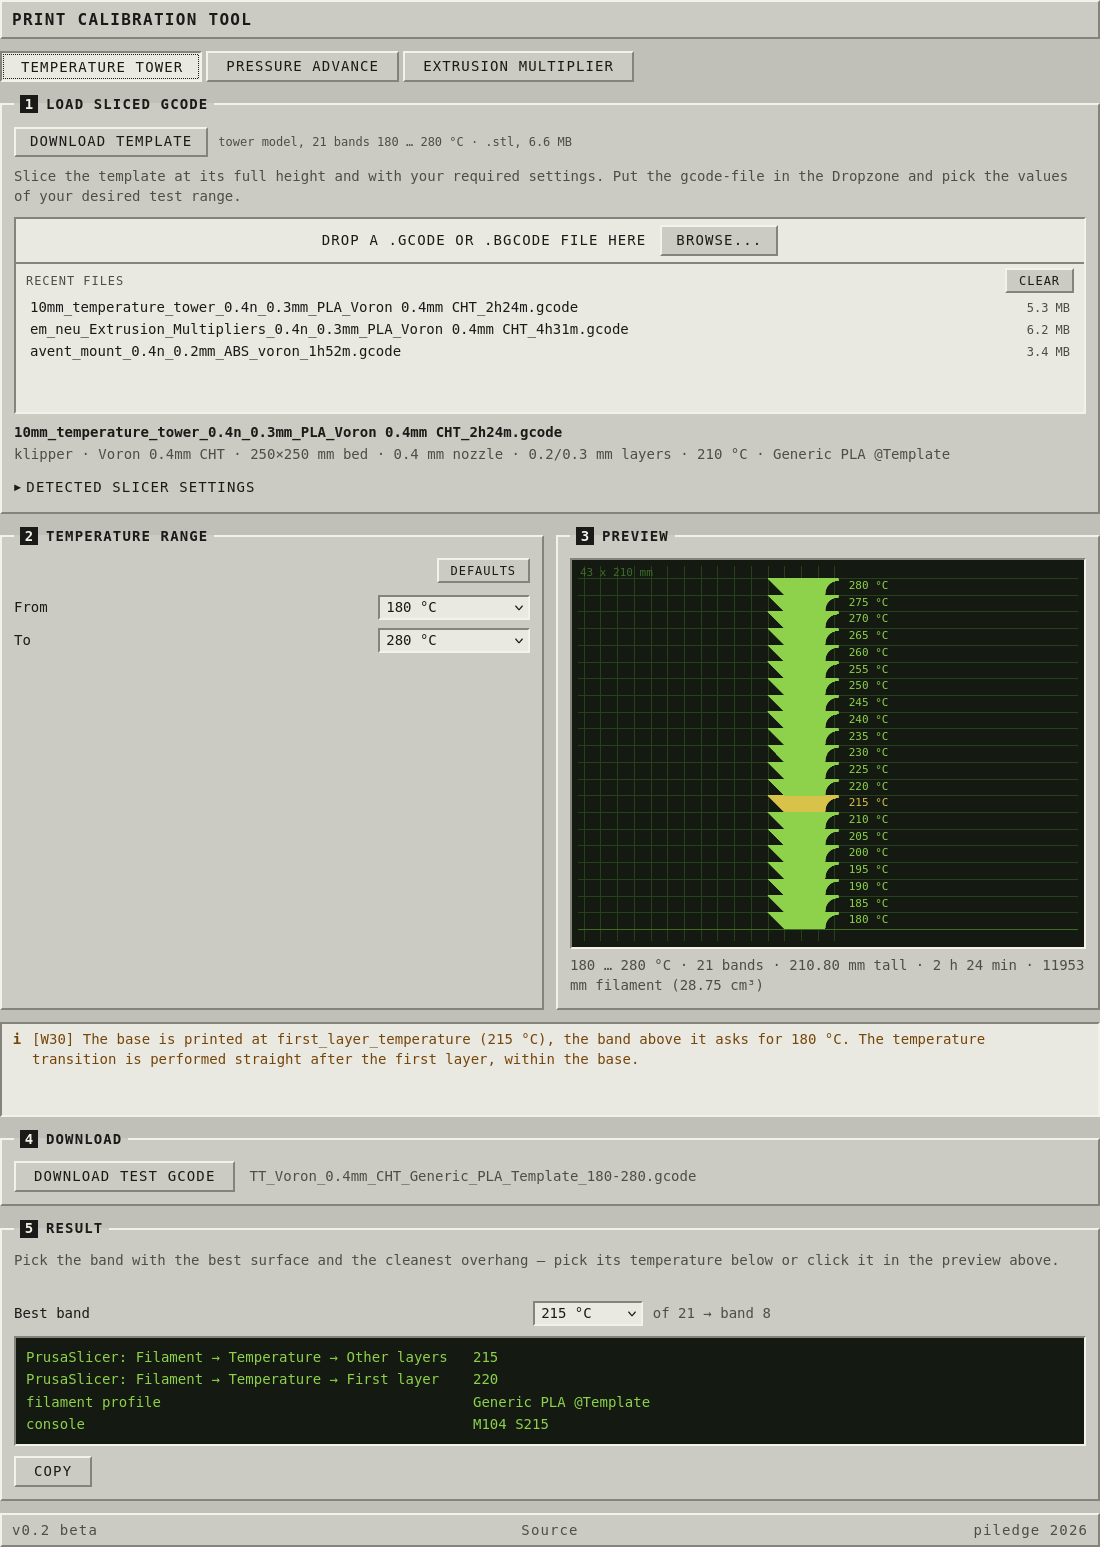
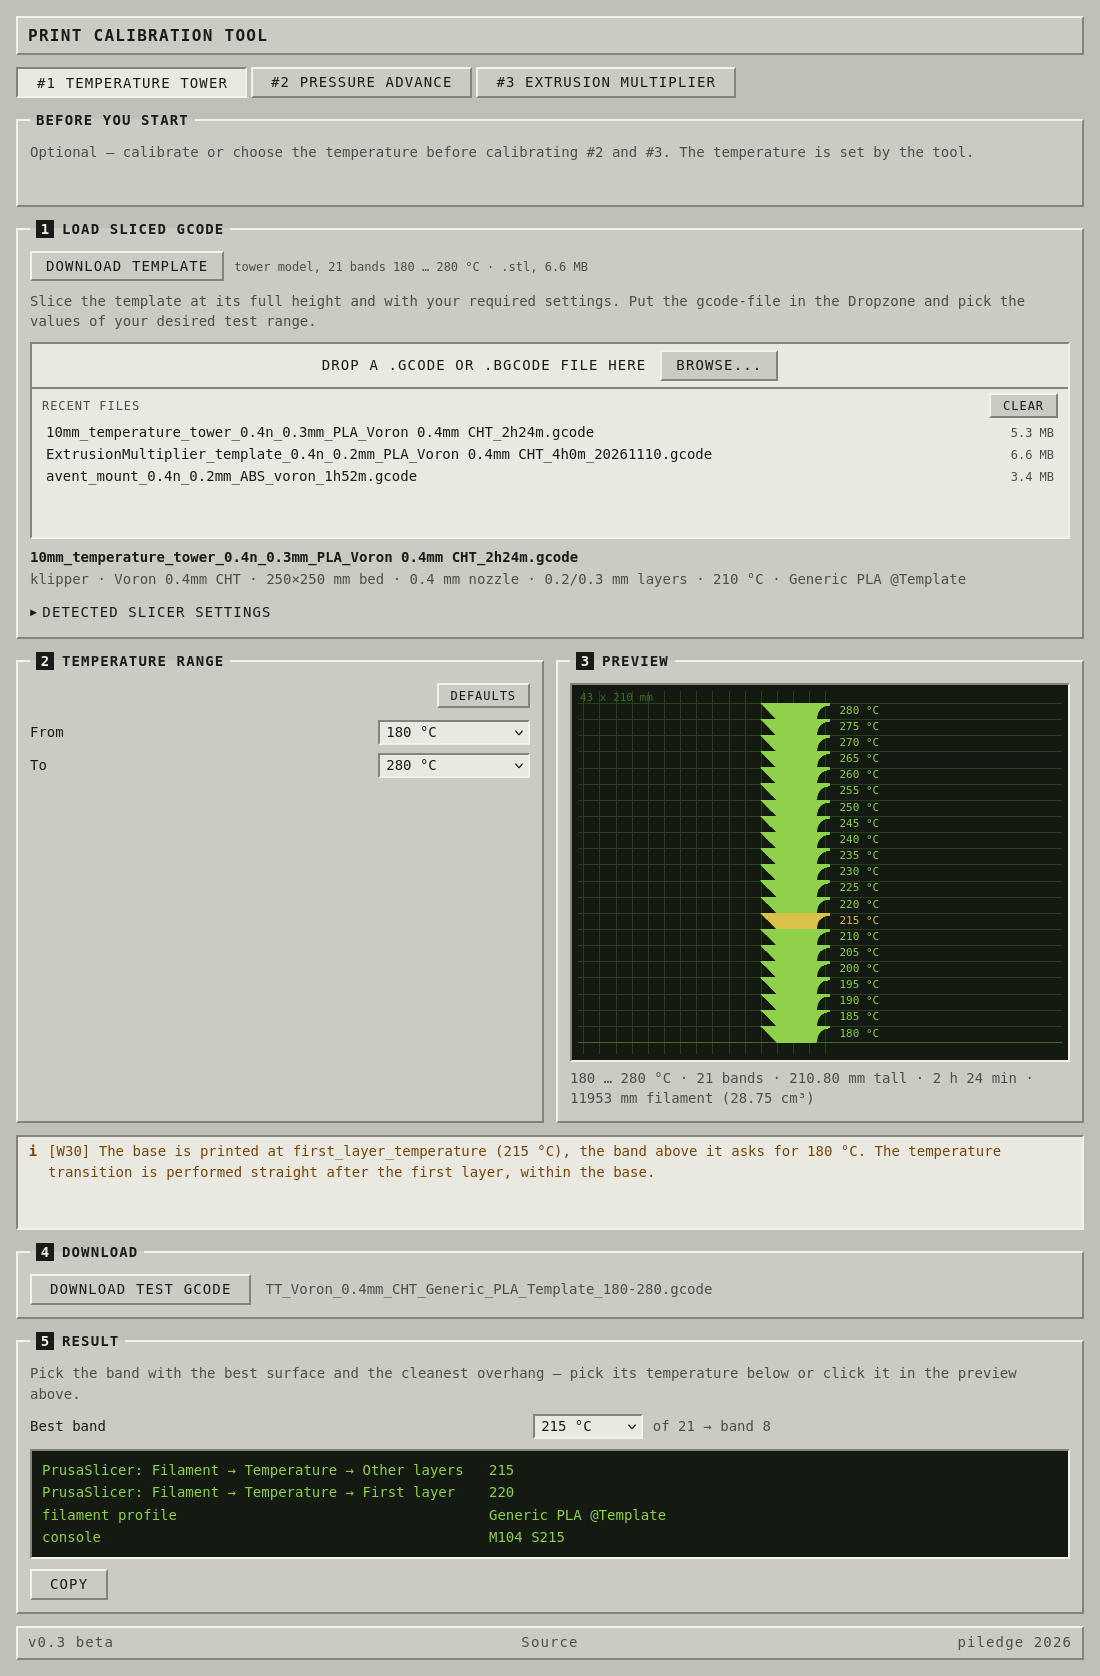
README and screenshots for v0.3
The EM section no longer claims that no geometry is regenerated; the
plates are rebuilt from the sliced layers. Screenshots retaken from the
current version.

Changed region(s): [[0.0, 0.0, 1.0, 1.0]]

diff --git a/README.md b/README.md
@@ -60,8 +60,8 @@ guide](https://ellis3dp.com/Print-Tuning-Guide/), redrawn.
 
 Slice the template complete: 56 tiles, 0.850 to 1.125 in
 steps of 0.005. The tool rewrites the extrusion of every tile so each one prints
-at its own multiplier, reading the target value from the object name. No geometry
-is regenerated — the toolpaths are the ones your slicer produced.
+at its own multiplier, reading the target value from the object name. The
+toolpaths are the ones your slicer produced.
 
 The tiles don't need a tall stack of top layers. With at least four, the tool
 builds each tile solid from your sliced layers: the bottom, two infill layers,
